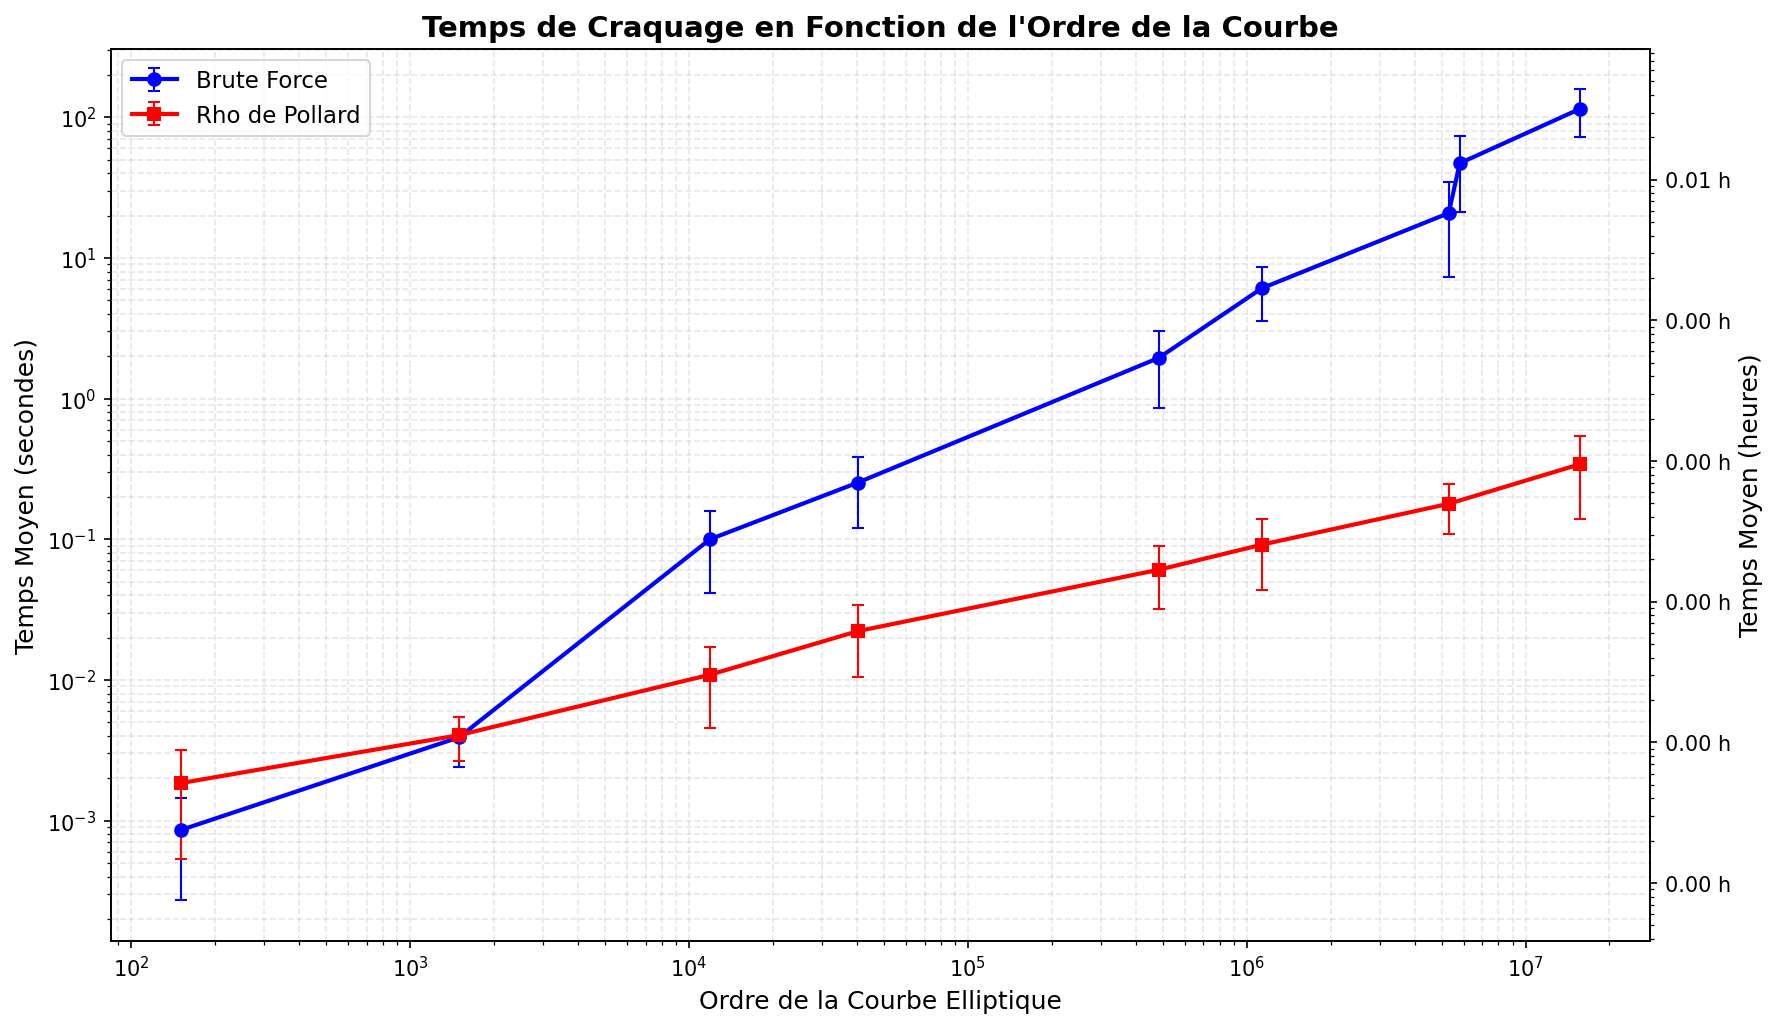
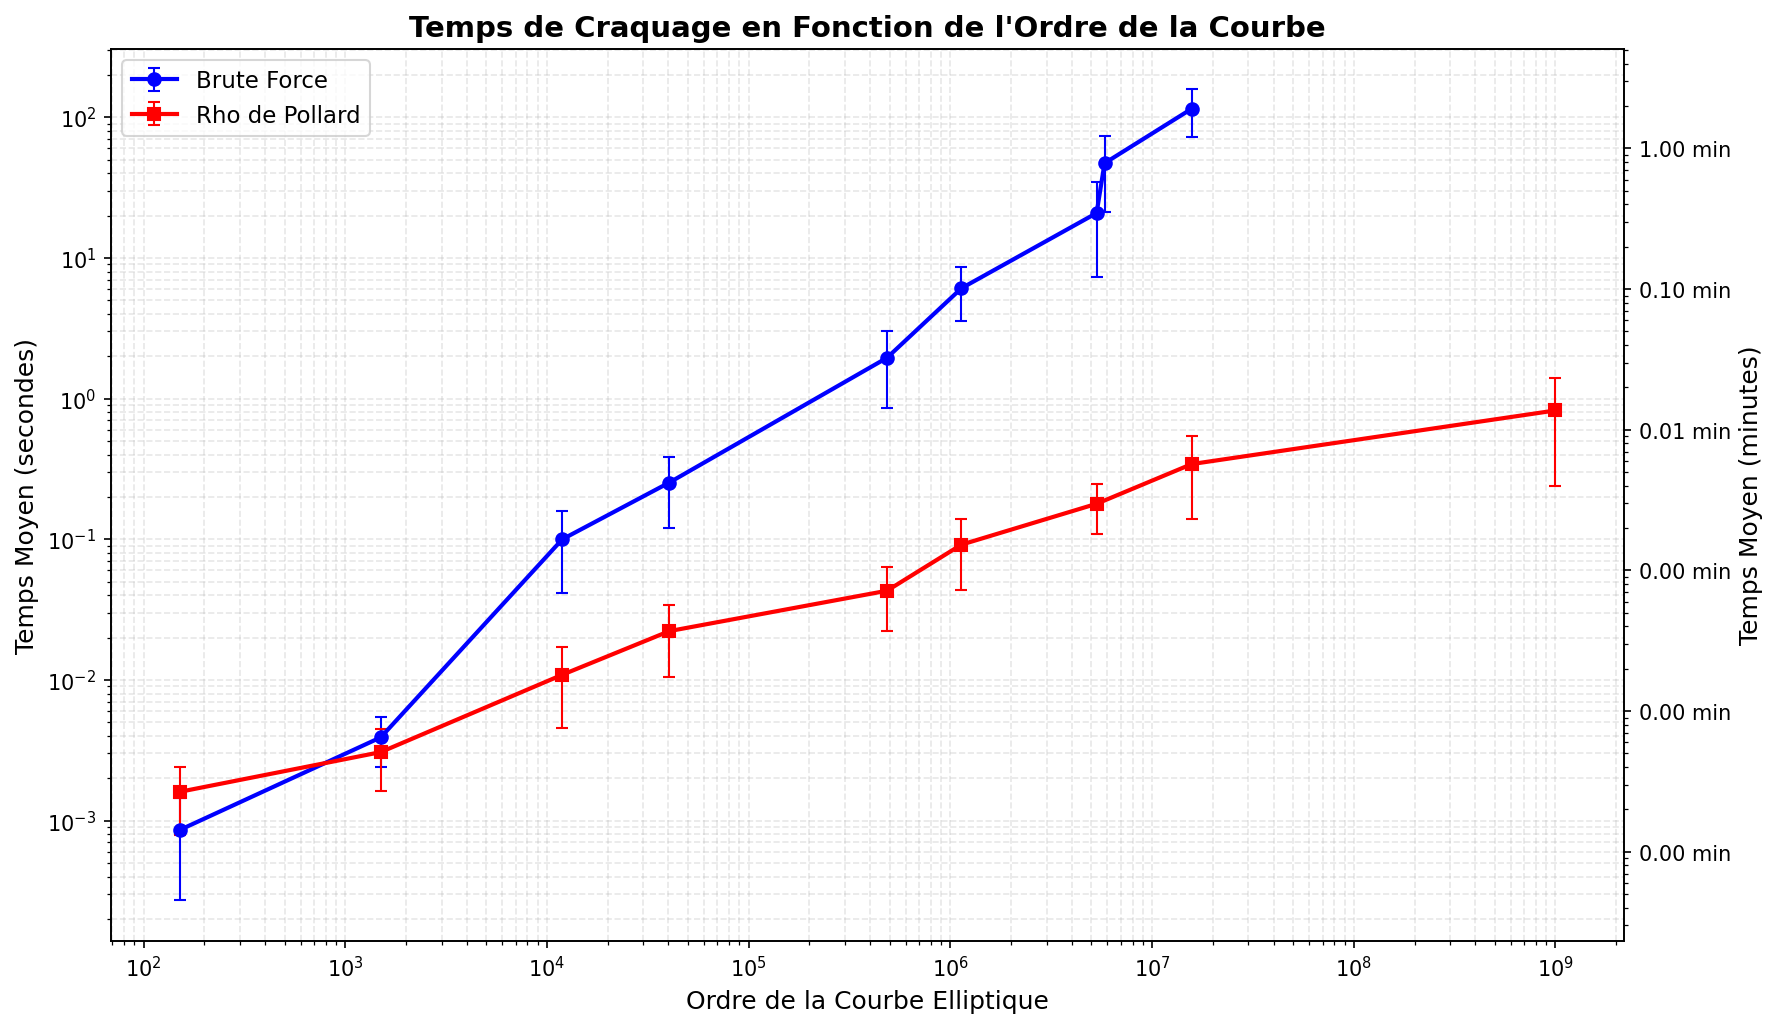
uzebifbz

diff --git a/crack/plot_perf.py b/crack/plot_perf.py
@@ -12,12 +12,12 @@ script_dir = Path(__file__).parent
 
 def _read_perf_csvs(script_dir):
     try:
-        df_force = pd.read_csv(script_dir / 'perf_crack_force_brute.csv', encoding='latin-1')
-        df_rho = pd.read_csv(script_dir / 'perf_crack_rho_de_pollard.csv', encoding='latin-1')
+        df_force = pd.read_csv(script_dir / 'perf_csv/perf_crack_force_brute.csv', encoding='latin-1')
+        df_rho = pd.read_csv(script_dir / 'perf_csv/perf_crack_rho_de_pollard.csv', encoding='latin-1')
     except Exception as e:
         print(f"Error with latin-1: {e}")
-        df_force = pd.read_csv(script_dir / 'perf_crack_force_brute.csv', encoding='utf-8', errors='ignore')
-        df_rho = pd.read_csv(script_dir / 'perf_crack_rho_de_pollard.csv', encoding='utf-8', errors='ignore')
+        df_force = pd.read_csv(script_dir / 'perf_csv/perf_crack_force_brute.csv', encoding='utf-8', errors='ignore')
+        df_rho = pd.read_csv(script_dir / 'perf_csv/perf_crack_rho_de_pollard.csv', encoding='utf-8', errors='ignore')
 
     df_force.columns = [col.strip() for col in df_force.columns]
     df_rho.columns = [col.strip() for col in df_rho.columns]
@@ -117,18 +117,18 @@ def generate_perf_graph(show=False, output_path=None, verbose=True):
         ax2 = ax.twinx()
         ax2.set_yscale('log')
         low, high = ax.get_ylim()
-        low_h = max(low / 3600.0, 1e-12)
-        high_h = max(high / 3600.0, low_h * 10)
-        ax2.set_ylim(low_h, high_h)
+        low_min = max(low / 60.0, 1e-12)
+        high_min = max(high / 60.0, low_min * 10)
+        ax2.set_ylim(low_min, high_min)
 
-        def hours_formatter(x, pos):
+        def minutes_formatter(x, pos):
             try:
-                return f"{x:.2f} h"
+                return f"{x:.2f} min"
             except Exception:
                 return str(x)
 
-        ax2.yaxis.set_major_formatter(FuncFormatter(hours_formatter))
-        ax2.set_ylabel('Temps Moyen (heures)', fontsize=12)
+        ax2.yaxis.set_major_formatter(FuncFormatter(minutes_formatter))
+        ax2.set_ylabel('Temps Moyen (minutes)', fontsize=12)
 
     # Only show legend for the main axis if plotted lines exist
     if ax.lines:

diff --git a/crack/module/noms_fichiers.py b/crack/module/noms_fichiers.py
@@ -18,4 +18,4 @@ def nom_fichier_points_ordre_max(CE):
 def nom_CEcsv(): return "CE.csv"
 
 def nom_perfcsv(algo): 
-    return f"perf_{algo.__name__}.csv"
+    return f"perf_csv/perf_{algo.__name__}.csv"
